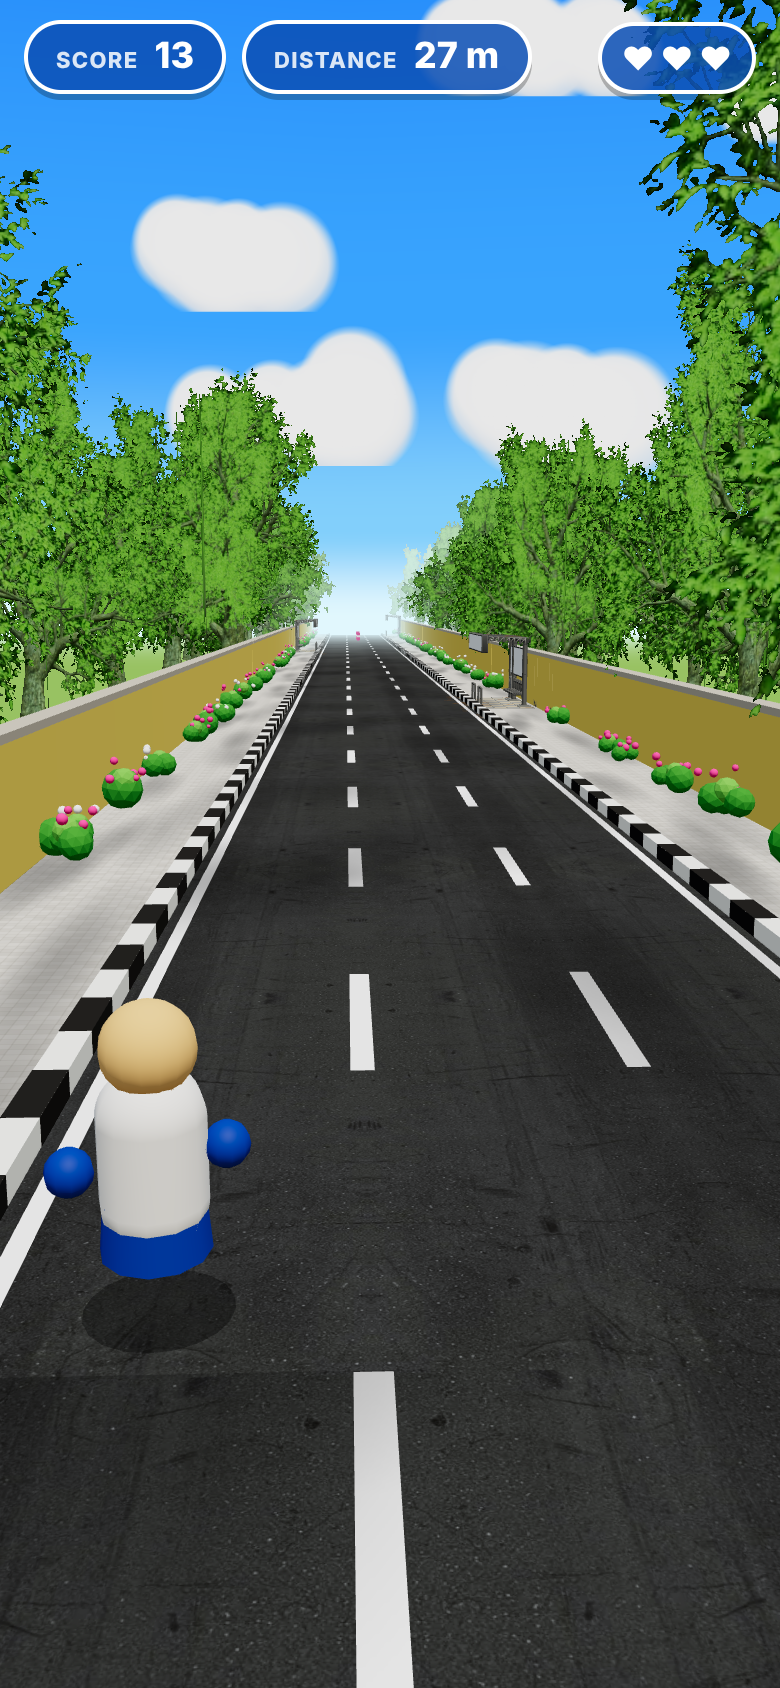
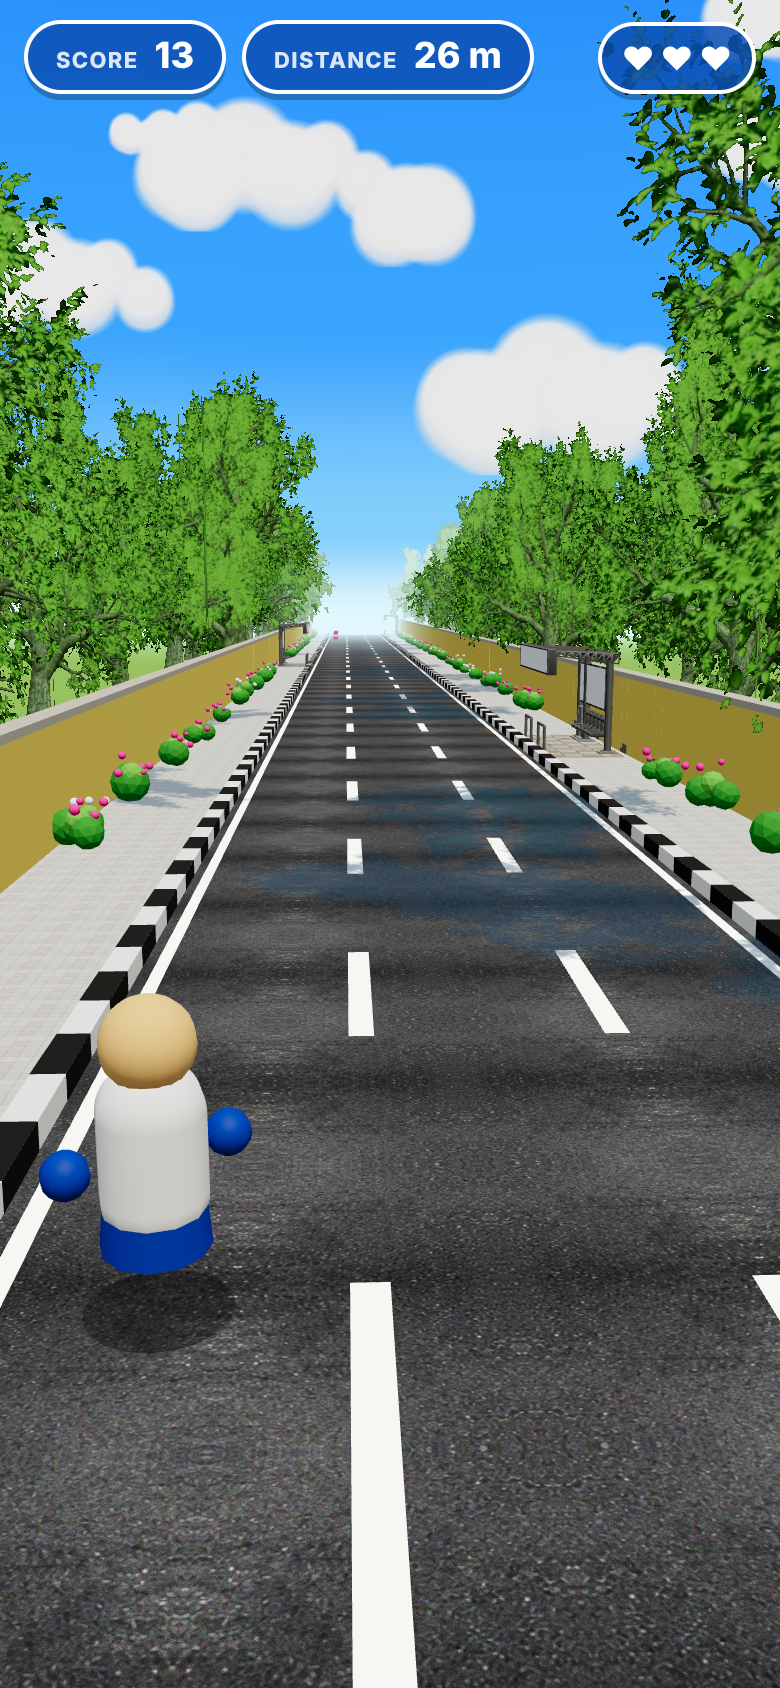
Road: photo-derived asphalt tile and baked leafy tree shadows
- scripts/make-road-textures.mjs: seamless asphalt tile cut from the reference
  photo (+ aggregate grain), tree-shadow overlay composed from the baked tree
  canopies
- world: world-space UV shadow overlay over road + pavements, unlit pure-white
  lane dashes, wider dashes

Claude-Session: https://claude.ai/code/session_015MHPvXtKwbps1DwJmjDf5T

diff --git a/public/js/world.js b/public/js/world.js
@@ -4,7 +4,7 @@ import {
   LANE_WIDTH, LANE_COUNT, ROAD_HALF, KERB, PAVEMENT, WALL, SHELTER_OFFSET_X,
   CHUNK_LENGTH, CHUNK_COUNT, COLORS,
 } from './config.js';
-import { pavingTexture, dappleTexture } from './textures.js';
+import { pavingTexture } from './textures.js';
 
 const SHRUBS_PER_CHUNK = 26;
 const FLOWERS_PER_SHRUB = 5;
@@ -59,15 +59,17 @@ export class World {
   // ---------------------------------------------------------------- materials
   _materials() {
     const asphalt = this.assets.asphalt;
-    asphalt.repeat.set(LANE_COUNT, CHUNK_LENGTH / 6.67);
+    asphalt.repeat.set(LANE_COUNT * 1.5, CHUNK_LENGTH / 1.67); // one tile ≈ 1.67 m of real asphalt
     const paving = pavingTexture();
     const tile = 0.55; // metres per paving slab
     paving.repeat.set((PAVEMENT.outer - PAVEMENT.inner) / tile, CHUNK_LENGTH / tile);
-    const dapple = dappleTexture();
-    dapple.repeat.set(1, CHUNK_LENGTH / 24);
+    // Baked leafy tree shadows: one texture spans the full street width and
+    // 30 m of road; mirrored wrapping keeps it continuous across chunks.
+    const shadows = this.assets.shadows;
+    shadows.repeat.set(1, CHUNK_LENGTH / 30);
     return {
       asphalt: new THREE.MeshStandardMaterial({ map: asphalt, color: COLORS.asphaltTint, roughness: 0.95, metalness: 0 }),
-      laneLine: new THREE.MeshStandardMaterial({ color: COLORS.laneLine, roughness: 0.8, polygonOffset: true, polygonOffsetFactor: -1 }),
+      laneLine: new THREE.MeshBasicMaterial({ color: COLORS.laneLine, toneMapped: false, polygonOffset: true, polygonOffsetFactor: -1 }),
       kerbWhite: new THREE.MeshStandardMaterial({ color: COLORS.kerbWhite, roughness: 0.85 }),
       kerbBlack: new THREE.MeshStandardMaterial({ color: COLORS.kerbBlack, roughness: 0.85 }),
       pavement: new THREE.MeshStandardMaterial({ map: paving, color: COLORS.pavement, roughness: 0.9 }),
@@ -75,7 +77,7 @@ export class World {
       wallCap: new THREE.MeshStandardMaterial({ color: COLORS.wallCap, roughness: 0.9 }),
       ground: new THREE.MeshStandardMaterial({ color: COLORS.ground, roughness: 1 }),
       dirt: new THREE.MeshStandardMaterial({ color: COLORS.dirt, roughness: 1 }),
-      dapple: new THREE.MeshBasicMaterial({ map: dapple, transparent: true, depthWrite: false, opacity: 0.6, polygonOffset: true, polygonOffsetFactor: -2 }),
+      dapple: new THREE.MeshBasicMaterial({ map: shadows, transparent: true, depthWrite: false, opacity: 0.7, polygonOffset: true, polygonOffsetFactor: -2 }),
       shrub: new THREE.MeshStandardMaterial({ color: COLORS.shrub, roughness: 0.9, flatShading: true }),
       shrubLight: new THREE.MeshStandardMaterial({ color: COLORS.shrubLight, roughness: 0.9, flatShading: true }),
       flowerPink: new THREE.MeshStandardMaterial({ color: COLORS.flowerPink, roughness: 0.7 }),
@@ -103,7 +105,7 @@ export class World {
     for (let lane = 1; lane < LANE_COUNT; lane++) {
       const x = -ROAD_HALF + lane * LANE_WIDTH;
       for (let z = -L / 2; z < L / 2; z += 7.5) {
-        marks.push(new THREE.PlaneGeometry(0.22, 3).rotateX(-Math.PI / 2).translate(x, 0.012, z + 1.5));
+        marks.push(new THREE.PlaneGeometry(0.25, 3).rotateX(-Math.PI / 2).translate(x, 0.012, z + 1.5));
       }
     }
     for (const s of [1, -1]) {
@@ -127,10 +129,18 @@ export class World {
     const wallCap = mirrored((s) => box(s * (WALL.inner - 0.08), s * (WALL.outer + 0.08), WALL.height, WALL.height + 0.14, -L / 2, L / 2));
     // Dappled shadow overlays for the road and both pavements.
     const dapple = mergeGeometries([
-      new THREE.PlaneGeometry(ROAD_HALF * 2, L).rotateX(-Math.PI / 2).translate(0, 0.02, 0),
+      new THREE.PlaneGeometry(ROAD_HALF * 2, L, 1, 1).rotateX(-Math.PI / 2).translate(0, 0.02, 0),
       ...[1, -1].map((s) => new THREE.PlaneGeometry(PAVEMENT.outer - PAVEMENT.inner, L).rotateX(-Math.PI / 2)
         .translate(s * (PAVEMENT.inner + PAVEMENT.outer) / 2, PAVEMENT.height + 0.005, 0)),
     ]);
+    // Map UVs from world position so road and pavements share one continuous shadow image.
+    {
+      const pos = dapple.attributes.position, uv = dapple.attributes.uv;
+      for (let i = 0; i < pos.count; i++) {
+        uv.setXY(i, (pos.getX(i) + PAVEMENT.outer) / (PAVEMENT.outer * 2), (pos.getZ(i) + L / 2) / L);
+      }
+      uv.needsUpdate = true;
+    }
     const ground = mirrored((s) => {
       const g = new THREE.PlaneGeometry(80, L).rotateX(-Math.PI / 2);
       g.translate(s * (WALL.outer + 40), -0.02, 0);

diff --git a/public/js/assets.js b/public/js/assets.js
@@ -4,7 +4,7 @@ import { MeshoptDecoder } from 'three/addons/libs/meshopt_decoder.module.js';
 
 /**
  * Loads every runtime asset with one progress callback.
- * Returns { shelter, asphalt, trees: [{front, side, width, height}], leaf }.
+ * Returns { shelter, asphalt, shadows, trees: [{front, side, width, height}], leaf }.
  */
 export async function loadAssets(onProgress = () => {}) {
   const manager = new THREE.LoadingManager();
@@ -48,9 +48,10 @@ export async function loadAssets(onProgress = () => {}) {
 
   const treeMeta = await loadJson('assets/textures/trees.json');
 
-  const [shelterGltf, asphalt, leaf, aFront, aSide, bFront, bSide] = await Promise.all([
+  const [shelterGltf, asphalt, shadows, leaf, aFront, aSide, bFront, bSide] = await Promise.all([
     loadGltf('assets/models/bus-shelter.glb'),
     loadTex('assets/textures/asphalt.webp', { repeat: true }),
+    loadTex('assets/textures/tree-shadows.webp', { srgb: false, repeat: true }),
     loadTex('assets/textures/leaf.webp'),
     loadTex('assets/textures/tree-a-front.webp'),
     loadTex('assets/textures/tree-a-side.webp'),
@@ -70,6 +71,7 @@ export async function loadAssets(onProgress = () => {}) {
   return {
     shelter,
     asphalt,
+    shadows,
     leaf,
     trees: [
       { front: aFront, side: aSide, width: treeMeta.a.width, height: treeMeta.a.height },

diff --git a/public/js/config.js b/public/js/config.js
@@ -30,8 +30,8 @@ export const COLORS = {
   skyLow: 0x82cffb,
   skyHorizon: 0xe1f7fd,
   fog: 0xe1f7fd,
-  asphaltTint: 0x9fa3a7,
-  laneLine: 0xffffff,
+  asphaltTint: 0xe4e4e2,
+  laneLine: 0xf6f6f2,
   kerbWhite: 0xf3f3ee,
   kerbBlack: 0x262626,
   pavement: 0xffffff,      // tinted by the paving texture
